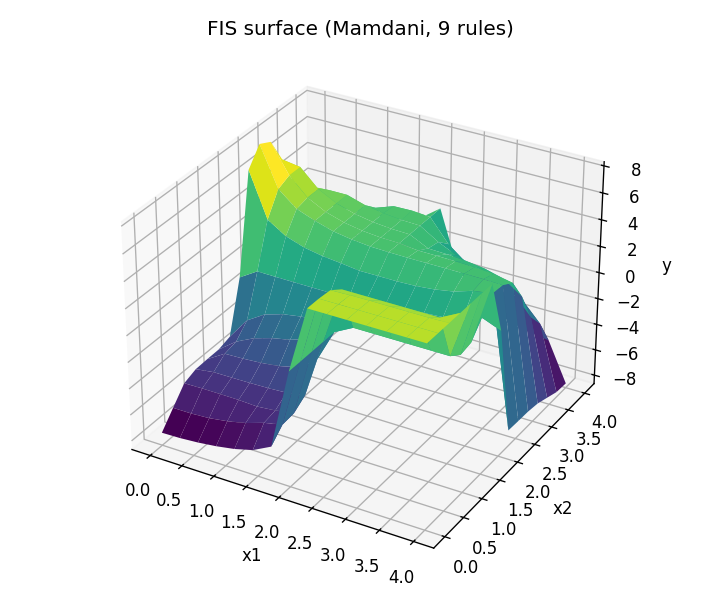
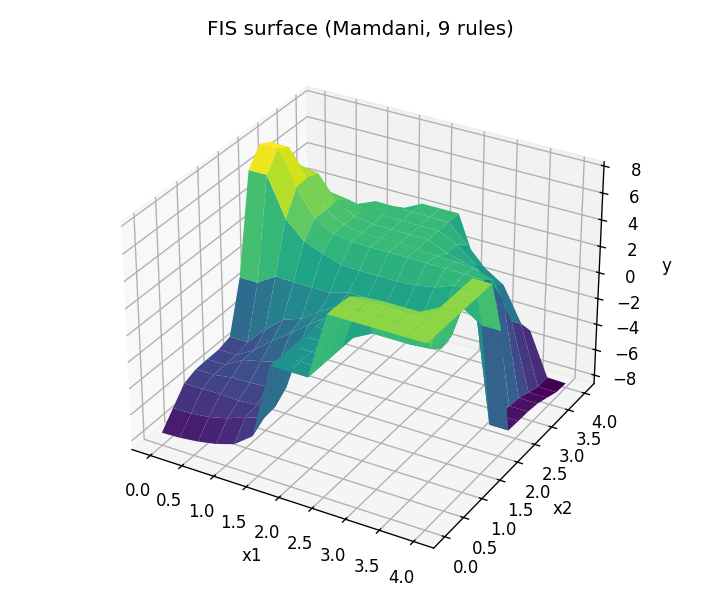
task 3 fix

Changed region(s): [[0.2139, 0.24, 0.7944, 0.75], [0.3361, 0.45, 0.3972, 0.48], [0.8556, 0.48, 0.8861, 0.51]]

diff --git a/LR_3/src/LR_3_task_1.py b/LR_3/src/LR_3_task_1.py
@@ -40,25 +40,31 @@ x1 = ctrl.Antecedent(np.arange(0, 4.001, 0.01), "x1")
 x2 = ctrl.Antecedent(np.arange(0, 4.001, 0.01), "x2")
 y = ctrl.Consequent(np.arange(-10, 10.01, 0.05), "y")
 
-# x1: 3 трикутних терми (L, A, H) — методичка, крок 9-10
-x1["L"] = fuzz.trimf(x1.universe, [0, 0, 2])
-x1["A"] = fuzz.trimf(x1.universe, [0, 2, 4])
-x1["H"] = fuzz.trimf(x1.universe, [2, 4, 4])
+# x1: 3 трикутних терми (L, A, H) — методичка, крок 9-10, рис.2
+# Params з рис.2: L = [-1.6, 0, 1.6]. Решта — рівномірно на [0,4]
+# з кроком 2 (центри 0/2/4) і півшириною 1.6 (default «Add MFs» MATLAB).
+x1["L"] = fuzz.trimf(x1.universe, [-1.6, 0.0, 1.6])
+x1["A"] = fuzz.trimf(x1.universe, [ 0.4, 2.0, 3.6])
+x1["H"] = fuzz.trimf(x1.universe, [ 2.4, 4.0, 5.6])
 
-# x2: 5 гаусових термів (L, LA, A, HA, H) — методичка, крок 11-12
-sigma = 0.425  # перекриття сусідніх термів на рівні ~0.5
+# x2: 5 гаусових термів (L, LA, A, HA, H) — методичка, крок 11-12, рис.3
+# Params з рис.3 для L: gaussmf, σ=0.425, mean=0. Інші терми — рівномірно
+# на [0,4] з центрами 0/1/2/3/4.
+sigma = 0.425
 x2["L"]  = fuzz.gaussmf(x2.universe, 0.0, sigma)
 x2["LA"] = fuzz.gaussmf(x2.universe, 1.0, sigma)
 x2["A"]  = fuzz.gaussmf(x2.universe, 2.0, sigma)
 x2["HA"] = fuzz.gaussmf(x2.universe, 3.0, sigma)
 x2["H"]  = fuzz.gaussmf(x2.universe, 4.0, sigma)
 
-# y: 5 трикутних термів — методичка, крок 13-14
-y["L"]  = fuzz.trimf(y.universe, [-10, -10, -5])
+# y: 5 трикутних термів — методичка, крок 13-14, рис.4
+# Params з рис.4 для L: [-15, -10, -5]. Решта — рівномірно на [-10,10]
+# з кроком 5 (центри -10/-5/0/5/10) і півшириною 5.
+y["L"]  = fuzz.trimf(y.universe, [-15, -10, -5])
 y["LA"] = fuzz.trimf(y.universe, [-10,  -5,  0])
 y["A"]  = fuzz.trimf(y.universe, [ -5,   0,  5])
 y["HA"] = fuzz.trimf(y.universe, [  0,   5, 10])
-y["H"]  = fuzz.trimf(y.universe, [  5,  10, 10])
+y["H"]  = fuzz.trimf(y.universe, [  5,  10, 15])
 
 # 9 правил дослівно з методички (с.4). Правила 7 і 9 мають однакову
 # умову з різним виходом — залишено, max-агрегація відпрацює.
